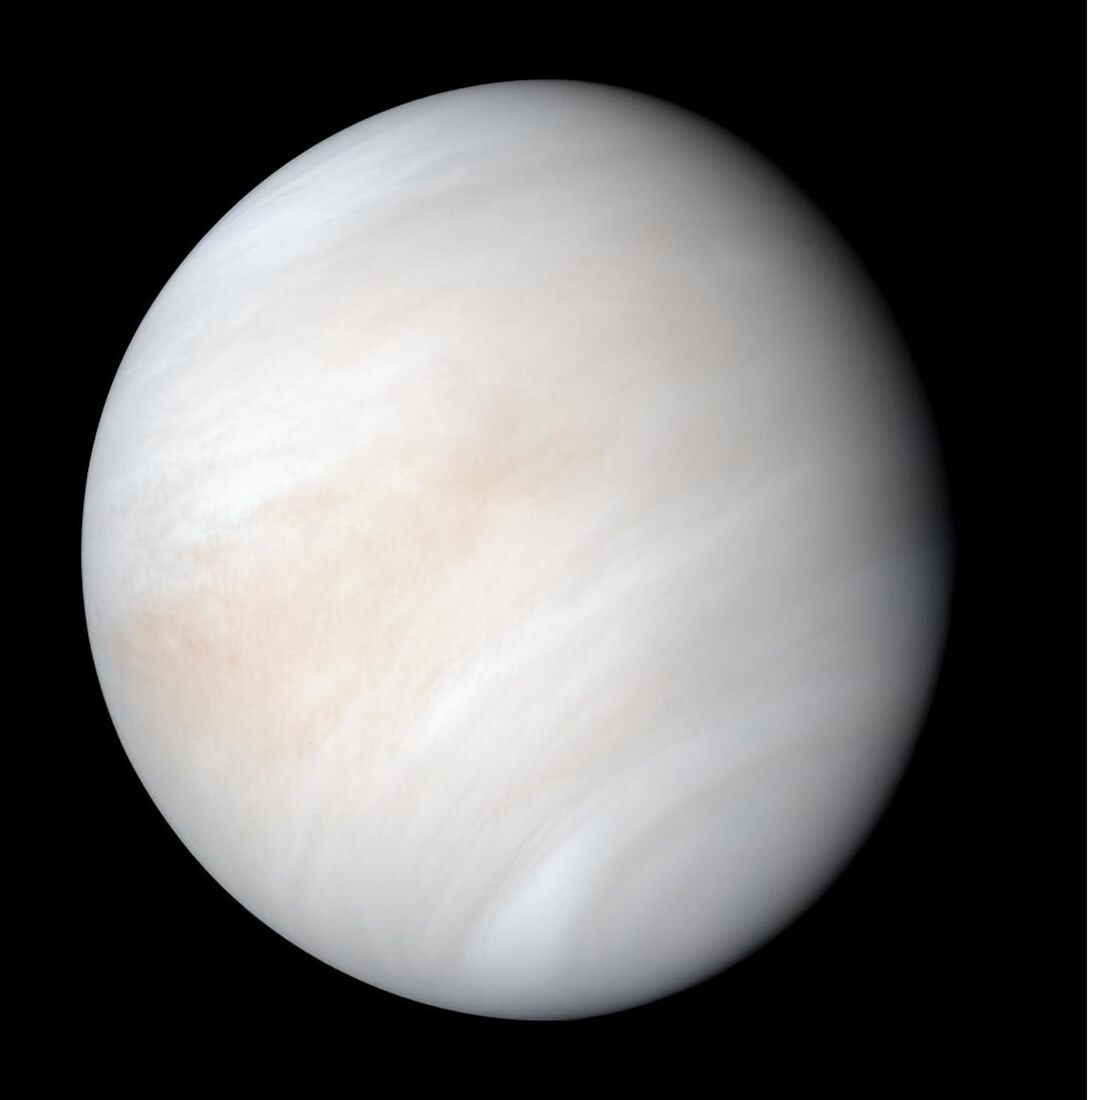
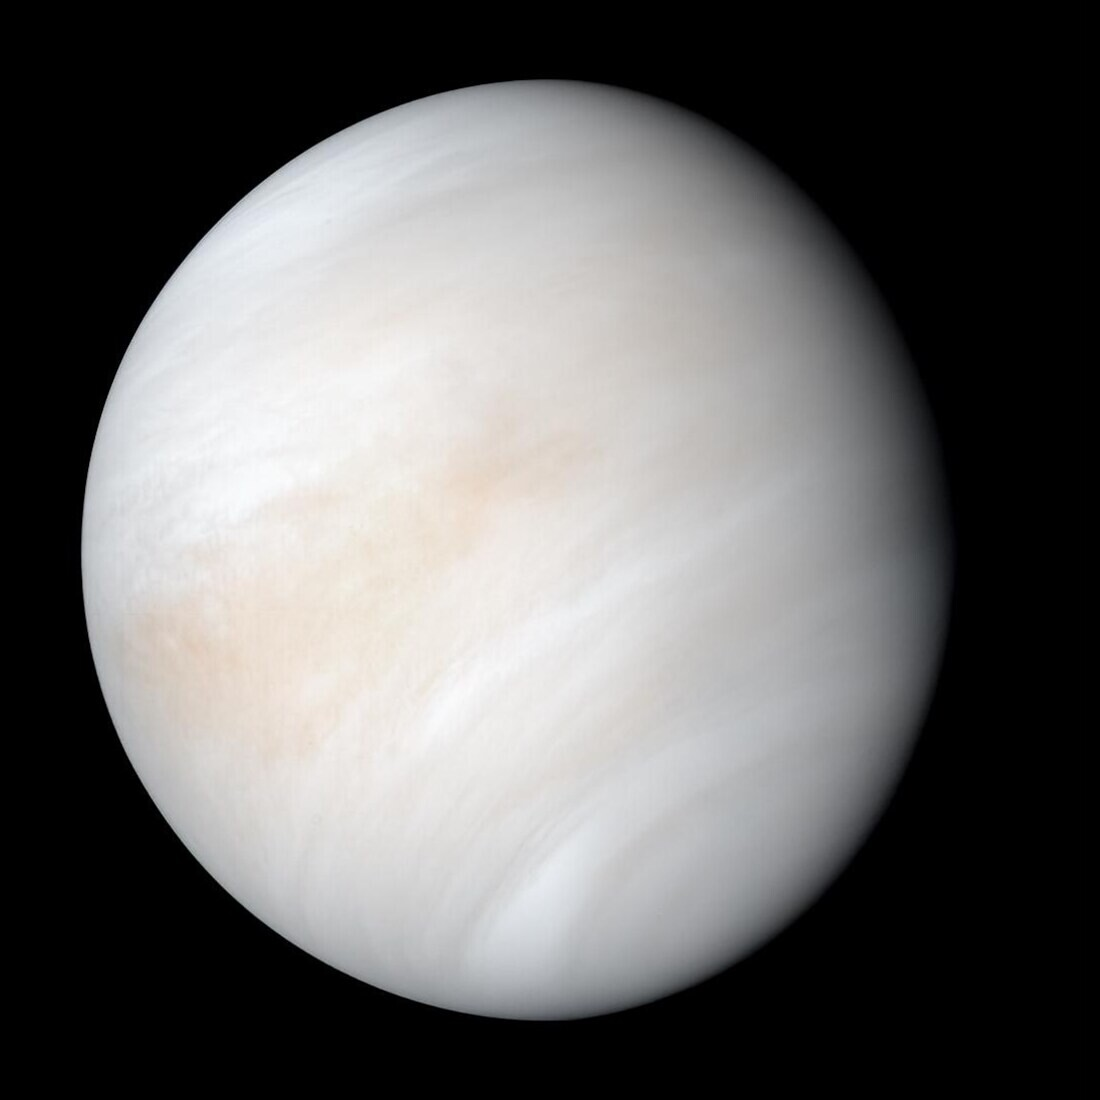
Add real pictures and charts to nine older lessons on the Sun, planets and moons
Also redraws the three earlier charts with larger lettering for phones
and paints out a white strip at the edge of the Mariner 10 picture of Venus.

Claude-Session: https://claude.ai/code/session_01Sn3b4aLpgFepSx4SWKviMY

Changed region(s): [[0.9891, 0.0, 1.0, 1.0]]

diff --git a/src/content/lessons/the-suns-reach/first-look.md b/src/content/lessons/the-suns-reach/first-look.md
@@ -7,8 +7,29 @@ The Sun gives out more than light. It also blows a wind.
 
 It is not a wind of air. It is a very thin stream of tiny electric particles, rushing away from the Sun in every direction at about 400 km every second.
 
+<figure class="photo">
+  <img src="/img/learn/aurora-from-iss.jpg" alt="Curtains of green light hanging above the dark curve of the Earth, seen from orbit." width="1100" height="733" loading="lazy" />
+  <figcaption><b>A photograph.</b> Where the wind meets the Earth. The planet's magnet steers the particles towards the poles, where they strike the high air and make it glow. These are the southern lights over the Indian Ocean, from the International Space Station on 12 June 2025, with the Earth at the top as the camera took it. At 400 km a second the wind takes about four days to get here (worked out here). Credit: NASA.</figcaption>
+</figure>
+
 The wind blows past all the planets. It is what pushes a comet's blue tail straight back from the Sun.
+
+<figure class="photo">
+  <img src="/img/learn/comet-hale-bopp-1997-eso.jpg" alt="A comet with a bright head and two tails against a field of stars: a straight blue one and a wide, curved, cream-coloured one." width="1100" height="773" loading="lazy" />
+  <figcaption><b>A photograph.</b> Comet Hale-Bopp on 14 March 1997. It has two tails. The straight blue one is gas, blown directly away from the Sun by the wind. The wide pale one is dust, which lags behind along the comet's path. Credit: ESO/E. Slawik.</figcaption>
+</figure>
 
 Far beyond the last planet, the wind finally runs out of push. That is where the Sun's own space ends and the space between the stars begins. The whole region inside is like a giant bubble with the Sun and planets in the middle.
 
+<figure class="photo">
+  <img src="/img/learn/charts/suns-reach-distances.svg" alt="A chart of four bars: Neptune at 30, the edge of the bubble at about 120, Voyager 2 at 144 and Voyager 1 at 172." width="800" height="474" loading="lazy" />
+  <figcaption><b>A chart.</b> Distances from the Sun, counting the distance from the Sun to the Earth as 1. The edge is where the two Voyagers crossed it, in 2012 and 2018. Their distances are for 12 November 2026, from NASA's JPL Horizons service.</figcaption>
+</figure>
+
 Two spacecraft, Voyager 1 and Voyager 2, have flown all the way out of the bubble. They were launched in 1977 and they are still going.
+
+
+<figure class="photo">
+  <img src="/img/learn/voyager-2-testing-1977.jpg" alt="Engineers in white overalls and caps working round a spacecraft with a large white dish, in a clean room." width="1100" height="875" loading="lazy" />
+  <figcaption><b>A photograph.</b> Voyager 2 being tested on 23 March 1977, five months before it left. The white dish, 3.7 metres across, is how it still talks to the Earth. A radio signal from Voyager 1 now takes nearly a whole day to arrive. Credit: NASA/JPL-Caltech.</figcaption>
+</figure>

diff --git a/src/content/lessons/three-kinds-of-planet/first-look.md b/src/content/lessons/three-kinds-of-planet/first-look.md
@@ -7,8 +7,28 @@ The eight planets fall into three groups.
 
 **Rock.** Mercury, Venus, the Earth and Mars are small and made of rock and metal. They have solid ground you could stand on.
 
+<figure class="photo">
+  <img src="/img/learn/mars-viking-global.jpg" alt="The red-orange globe of Mars with a long dark canyon across its middle." width="1100" height="1100" loading="lazy" />
+  <figcaption><b>A photograph, stitched together from many.</b> Mars, pieced together from about 1,000 pictures by NASA's Viking 1 orbiter. Solid ground, all the way round. The long scar is the canyon Valles Marineris. Credit: NASA/JPL/USGS.</figcaption>
+</figure>
+
 **Gas.** Jupiter and Saturn are enormous and made mostly of hydrogen and helium, the same stuff as the Sun. They have no ground at all. The gas simply gets thicker and hotter the deeper you go.
+
+<figure class="photo">
+  <img src="/img/learn/jupiter-juno-2019.jpg" alt="Jupiter as a banded ball of cream, tan and white swirling cloud, with the Great Red Spot near its upper right edge." width="900" height="900" loading="lazy" />
+  <figcaption><b>A photograph, with boosted colours.</b> Jupiter from NASA's Juno spacecraft on 12 February 2019. Everything in view is cloud. The Great Red Spot, at upper right, is a storm wider than the Earth. Credit: NASA/JPL-Caltech/SwRI/MSSS, processed by Kevin M. Gill (CC BY).</figcaption>
+</figure>
 
 **Ice.** Uranus and Neptune are in between. Under a deep atmosphere they are mostly water, ammonia and methane, crushed into a hot, dense fluid.
 
+<figure class="photo">
+  <img src="/img/learn/neptune-voyager-2.jpg" alt="The deep blue globe of Neptune with a dark oval storm and thin white clouds." width="1100" height="1098" loading="lazy" />
+  <figcaption><b>A photograph, with chosen colours.</b> Neptune from Voyager 2 in August 1989, the only spacecraft to have been there. The blue is deeper than the eye would see. Credit: NASA/JPL.</figcaption>
+</figure>
+
 The groups are in that order outward from the Sun, and that is no accident. Close to the young Sun it was too warm for ice, so there was only a little rock and metal to build with, and the planets there stayed small. Further out there was ice as well, and far more of it. Planets there grew big enough to pull in gas, and became giants.
+
+<figure class="photo">
+  <img src="/img/learn/charts/planet-sizes-to-scale.svg" alt="Eight circles in a row to scale: four tiny ones marked rock, two huge ones marked gas and two middling ones marked ice." width="800" height="380" loading="lazy" />
+  <figcaption><b>A chart.</b> The eight planets in order from the Sun, with their widths to scale. The gaps between them are not to scale. Jupiter is eleven Earths wide. Widths from NASA's planetary fact sheets.</figcaption>
+</figure>

diff --git a/src/content/lessons/rings/first-look.md b/src/content/lessons/rings/first-look.md
@@ -4,10 +4,26 @@ sources:
 ---
 Saturn's rings look solid, like a hat brim. They are not.
 
+<figure class="photo">
+  <img src="/img/learn/saturn-cassini-portrait-2004.jpg" alt="Saturn in soft yellow and tan, tilted, with its wide rings all the way round and their shadow across the planet." width="1100" height="562" loading="lazy" />
+  <figcaption><b>A photograph, stitched together from many.</b> Saturn in natural colour, made from 126 pictures taken by the Cassini spacecraft on 6 October 2004 from 6.3 million km away. Credit: NASA/JPL/Space Science Institute.</figcaption>
+</figure>
+
 They are made of billions of separate pieces of ice. Some are as small as grains of dust. Some are as big as a house. Every piece goes round Saturn on its own, like a tiny moon.
+
+<figure class="photo">
+  <img src="/img/learn/saturn-ring-wave-cassini.jpg" alt="Dozens of fine parallel bright and dark stripes running diagonally, close together at one side and wider apart at the other." width="900" height="900" loading="lazy" />
+  <figcaption><b>A photograph.</b> A small part of the rings from close up, by Cassini on 4 June 2017. The picture is about 500 km across. The stripes are a ripple set going by the tug of a moon called Janus. Each dot of the picture is half a kilometre wide, so even here not one piece of ice shows on its own. Credit: NASA/JPL-Caltech/Space Science Institute.</figcaption>
+</figure>
 
 The rings are enormously wide. If you laid them between the Earth and the Moon they would fill most of the gap.
 
 But they are also amazingly thin: in most places only about ten metres from top to bottom. For their width, they are as thin as a sheet of paper three kilometres across.
 
 Saturn is not the only planet with rings. Jupiter, Uranus and Neptune have them too. Theirs are dark and faint, and were only found in the last fifty years.
+
+
+<figure class="photo">
+  <img src="/img/learn/uranus-rings-webb.jpg" alt="Uranus as a pale blue-white ball with a bright white cap, circled by sharp thin rings and a few dots that are moons." width="800" height="578" loading="lazy" />
+  <figcaption><b>A real picture, in infrared.</b> The rings of Uranus, seen face on by the James Webb Space Telescope and released in December 2023. They are far easier to see in infrared light than in light the eye can see. The colours were chosen. The dots nearby are some of its moons. Credit: NASA, ESA, CSA, STScI.</figcaption>
+</figure>

diff --git a/src/content/lessons/moons-in-step/first-look.md b/src/content/lessons/moons-in-step/first-look.md
@@ -7,8 +7,23 @@ Push a child on a swing at just the right moment each time and a small push goes
 
 Moons can push each other like that. Three of Jupiter's big moons do it all the time.
 
+<figure class="photo">
+  <img src="/img/learn/galilean-moons-galileo.jpg" alt="Four moons in a row: yellow-orange Io, pale Europa with brown streaks, large grey-brown Ganymede and dark Callisto speckled with bright craters." width="1092" height="353" loading="lazy" />
+  <figcaption><b>Real photographs, arranged.</b> Jupiter's four big moons, with their sizes to scale: Io, Europa, Ganymede and Callisto, in order outward. The first three keep step. Callisto does not. Pictures by NASA's Galileo spacecraft. Credit: NASA/JPL/DLR.</figcaption>
+</figure>
+
 Io is the closest in and the quickest. In the time it takes Ganymede to go round Jupiter once, Europa goes round twice and Io goes round four times. They have kept this up for a very long time.
 
+<figure class="photo">
+  <img src="/img/learn/charts/three-moons-in-step.svg" alt="Three bars of the same length: Io split into four laps, Europa into two and Ganymede as one." width="800" height="430" loading="lazy" />
+  <figcaption><b>A chart.</b> Laps round Jupiter in the same seven days. The match is close but not perfect. Io finishes its four laps about two hours before Ganymede finishes one (worked out here from the periods in NASA's JPL Horizons service).</figcaption>
+</figure>
+
 Because of that rhythm, the moons pass each other at the same places on every lap, and each gets a little tug in the same direction again and again. The tugs keep their orbits slightly oval. That is the reason Io is squeezed and heated until it erupts.
+
+<figure class="photo">
+  <img src="/img/learn/io-galileo-1999.jpg" alt="Io as a yellow, orange and pale green globe dotted with black spots and red rings." width="900" height="900" loading="lazy" />
+  <figcaption><b>A photograph, stitched together from many.</b> Io, from NASA's Galileo spacecraft on 3 July 1999, in colours close to what the eye would see. There are no craters from falling rocks to be seen. Lava and sulphur from its volcanoes, the dark spots, bury them too quickly. Credit: NASA/JPL/University of Arizona.</figcaption>
+</figure>
 
 When orbits keep time like this, it is called a resonance.

diff --git a/src/content/lessons/how-the-sun-shines/first-look.md b/src/content/lessons/how-the-sun-shines/first-look.md
@@ -4,8 +4,24 @@ sources:
 ---
 The Sun is not on fire. A fire needs air, and there is none in space. A Sun made of burning coal would have gone out long ago.
 
+<figure class="photo">
+  <img src="/img/learn/sun-sunspots-sdo.jpg" alt="The whole Sun as an orange disc with a cluster of dark spots below the middle." width="1024" height="990" loading="lazy" />
+  <figcaption><b>A photograph.</b> The Sun in ordinary light in October 2014, by NASA's Solar Dynamics Observatory. Nothing here is burning. The whole ball is gas so hot that it glows, and the dark spots are places a little cooler than the rest. Credit: NASA/SDO.</figcaption>
+</figure>
+
 The Sun shines because of what happens in its centre. There the gas is squeezed so hard, and is so hot, that tiny particles of hydrogen are forced together to make helium. Each time that happens, a little of their weight disappears and turns into energy.
 
 A little goes a long way. Every second the Sun gets about four million tonnes lighter, and all of that becomes light and heat.
 
+<figure class="photo">
+  <img src="/img/learn/sun-filament-sdo.jpg" alt="The Sun as a mottled red and orange ball with bright patches and a long dark line across its lower half." width="1100" height="973" loading="lazy" />
+  <figcaption><b>A photograph, with chosen colours.</b> The Sun on 10 February 2015 in extreme ultraviolet light, which the eye cannot see, so the red was chosen for it. Every bit of the energy that keeps this going was made in the centre. Credit: NASA/SDO.</figcaption>
+</figure>
+
 It has been doing this for 4.6 billion years. It is so big that it has hardly noticed.
+
+
+<figure class="photo">
+  <img src="/img/learn/charts/sun-weight-used.svg" alt="A long gold bar with a hairline at its right-hand end, labelled as the part turned into light so far." width="800" height="300" loading="lazy" />
+  <figcaption><b>A chart.</b> Four million tonnes a second for 4.6 billion years comes to roughly a hundred Earths' worth of matter. Next to the Sun that is about 3 parts in 10,000. Drawn to scale, the used part would be a quarter of the width of the thin white line. Worked out here from the Sun's measured output.</figcaption>
+</figure>

diff --git a/src/content/lessons/ocean-moons/first-look.md b/src/content/lessons/ocean-moons/first-look.md
@@ -9,6 +9,21 @@ The water is hidden. On top is a shell of ice, kilometres thick and as hard as r
 
 Europa, a moon of Jupiter a little smaller than ours, is thought to hold about twice as much water as all of Earth's oceans put together.
 
+<figure class="photo">
+  <img src="/img/learn/europa-galileo.jpg" alt="Half of a pale blue-white globe criss-crossed by long rust-brown lines and blotches, fading into shadow on the right." width="1100" height="1488" loading="lazy" />
+  <figcaption><b>A photograph, stitched together from many.</b> Europa, pieced together from pictures taken by NASA's Galileo spacecraft in 1995 and 1998, in colours close to what the eye would see. The brown lines are cracks in the ice. Credit: NASA/JPL-Caltech/SETI Institute.</figcaption>
+</figure>
+
 At Saturn, the small moon Enceladus gives its ocean away. Jets of water vapour and ice grains spray out of cracks near its south pole and into space. A spacecraft has flown straight through them and tasted what is inside.
 
+<figure class="photo">
+  <img src="/img/learn/enceladus-jets-cassini.jpg" alt="The dark edge of a moon with thin bright jets spraying up from it into black space." width="1100" height="680" loading="lazy" />
+  <figcaption><b>A photograph.</b> The jets of Enceladus, lit from behind by the Sun. Two pictures by NASA's Cassini spacecraft joined together. Credit: NASA/JPL/Space Science Institute.</figcaption>
+</figure>
+
 Where there is liquid water there might be life, so these moons are some of the most interesting places we know.
+
+<figure class="photo">
+  <img src="/img/learn/charts/europa-water-ball.svg" alt="Two blue balls side by side: a smaller one for all the Earth's oceans and a larger one for Europa's ocean, which sits inside a dashed outline of Europa." width="800" height="500" loading="lazy" />
+  <figcaption><b>A chart.</b> All the water gathered into a ball, to scale. Europa's ball is bigger, although Europa is smaller than our Moon. Worked out here from the 1.335 billion cubic kilometres in the Earth's oceans, taking twice that for Europa.</figcaption>
+</figure>

diff --git a/src/content/lessons/air-and-the-greenhouse/first-look.md b/src/content/lessons/air-and-the-greenhouse/first-look.md
@@ -8,8 +8,23 @@ Venus, Earth and Mars are neighbours, and all three are made of rock. But you co
 
 Venus is hot enough to melt lead. Mars is colder than Antarctica. The Earth is in between.
 
+<figure class="photo">
+  <img src="/img/learn/venus-mariner-10.jpg" alt="A smooth cream-white globe with faint tan swirls of cloud, on black." width="1100" height="1100" loading="lazy" />
+  <figcaption><b>A photograph, with chosen colours.</b> Venus, by NASA's Mariner 10 spacecraft in February 1974. The colour was built from pictures taken through orange and ultraviolet filters. All you can see is the top of the cloud. The ground is hidden under air that presses about ninety times as hard as ours. Credit: NASA/JPL-Caltech.</figcaption>
+</figure>
+
 Distance from the Sun is part of the reason, but only part. The bigger reason is air.
 
 Some gases in the air work like a blanket. They let sunshine in and stop some of the warmth from getting back out. This is called the greenhouse effect.
 
+<figure class="photo">
+  <img src="/img/learn/earth-thin-air-sunrise-iss.jpg" alt="The curve of the Earth in darkness with the Sun just rising over it, and a thin bright blue line along the edge." width="1100" height="642" loading="lazy" />
+  <figcaption><b>A photograph.</b> All the air there is. The Sun rises behind the Earth, seen from the International Space Station over Indonesia on 21 April 2019, and the atmosphere shows as the thin blue line. Credit: NASA.</figcaption>
+</figure>
+
 Venus has a blanket that is far too thick. Mars has almost none. The Earth's is just thick enough to keep the oceans from freezing.
+
+<figure class="photo">
+  <img src="/img/learn/charts/three-planets-temperature.svg" alt="A temperature scale from cold blue to hot red with Mars at minus 65 degrees, Earth at 15 and Venus at 464, beyond the mark where lead melts." width="800" height="430" loading="lazy" />
+  <figcaption><b>A chart.</b> The average temperature at the ground on each planet, in degrees Celsius. Figures from NASA.</figcaption>
+</figure>

diff --git a/src/content/lessons/what-a-moon-is/first-look.md b/src/content/lessons/what-a-moon-is/first-look.md
@@ -8,6 +8,22 @@ A moon is a natural object that orbits a planet. The planet orbits the Sun, and 
 
 Earth has one, and we call it the Moon. Mars has two small ones. Mercury and Venus have none at all.
 
+<figure class="photo">
+  <img src="/img/learn/phobos-mro-2008.jpg" alt="A lumpy, potato-shaped grey-brown moon covered in craters and grooves, with one very large crater at the right." width="900" height="880" loading="lazy" />
+  <figcaption><b>A photograph.</b> Phobos, the larger of the two moons of Mars, from 6,800 km away on 23 March 2008. It is about 27 km long, too small to pull itself round. Credit: NASA/JPL-Caltech/University of Arizona.</figcaption>
+</figure>
+
 The giant planets have most of them. In November 2026 the count stood at 115 for Jupiter, 292 for Saturn, 29 for Uranus and 16 for Neptune. Even little Pluto has five. The numbers keep going up, because the ones still being found are small, dark and very far away.
 
+<figure class="photo">
+  <img src="/img/learn/charts/moons-by-planet.svg" alt="A chart of seven bars: Earth 1, Mars 2, Jupiter 115, Saturn 292, Uranus 29, Neptune 16 and Pluto 5." width="800" height="678" loading="lazy" />
+  <figcaption><b>A chart.</b> The count of known moons in November 2026, from NASA's Jet Propulsion Laboratory.</figcaption>
+</figure>
+
 Moons are not all alike. Ganymede and Titan are bigger than the planet Mercury. Most of the others are lumps of rock and ice only a few kilometres across, too small for their own gravity to pull them round.
+
+
+<figure class="photo">
+  <img src="/img/learn/ganymede-juno-2021.jpg" alt="Part of a large grey globe with dark old ground, paler grooved bands and bright craters with rays." width="898" height="1050" loading="lazy" />
+  <figcaption><b>A photograph.</b> Ganymede, the largest moon of all, from NASA's Juno spacecraft on 7 June 2021. It was taken through one filter, so it is in black and white. Ganymede is 5,268 km across, wider than Mercury. Credit: NASA/JPL-Caltech/SwRI/MSSS.</figcaption>
+</figure>

diff --git a/src/content/lessons/how-the-planets-formed/first-look.md b/src/content/lessons/how-the-planets-formed/first-look.md
@@ -7,6 +7,16 @@ The Sun and its planets were all made together, about 4.6 billion years ago, fro
 
 The cloud fell in on itself. Most of it went to the middle and became the Sun. The rest could not fall straight in, because the cloud was slowly turning. It spread out into a wide, flat disc going round the new star.
 
+<figure class="photo">
+  <img src="/img/learn/hl-tauri-disc-alma.jpg" alt="A glowing orange disc seen at a tilt, made of bright rings with dark gaps between them, round a bright centre." width="900" height="900" loading="lazy" />
+  <figcaption><b>A real picture, made with radio waves.</b> This is happening now round other stars. The disc of dust round the young star HL Tauri, about 450 light years away, taken in 2014 by the ALMA radio telescopes in Chile. The colour was chosen. The dark gaps may be lanes swept clear by planets as they form. Credit: ALMA (ESO/NAOJ/NRAO), CC BY 4.0.</figcaption>
+</figure>
+
 In the disc, grains of dust bumped into each other and stuck. Specks became pebbles. Pebbles became boulders, and boulders became lumps the size of mountains. The biggest lumps pulled in the others with their gravity, and grew into planets.
+
+<figure class="photo">
+  <img src="/img/learn/pds-70b-sphere-eso.jpg" alt="A black circle in the middle of a faint ring of light, with one bright spot to its right." width="1100" height="931" loading="lazy" />
+  <figcaption><b>A real picture, in infrared.</b> A planet caught being made. The bright spot is PDS 70b, growing inside the disc round a young star, seen by the Very Large Telescope in Chile in 2018. The black circle is a mask that hides the star, and the colour was chosen. Credit: ESO/A. Müller et al., CC BY 4.0.</figcaption>
+</figure>
 
 That is why the planets all go round the Sun the same way, and nearly in the same flat plane. They are what is left of the disc.

diff --git a/src/content/lessons/colour-and-brightness/first-look.md b/src/content/lessons/colour-and-brightness/first-look.md
@@ -22,6 +22,6 @@ Stars work the same way. Red stars are the coolest. Blue stars are the hottest. 
 Brightness is harder. A star can look bright because it really is powerful, or just because it is near. To know which, you have to find out how far away it is.
 
 <figure class="photo">
-  <img src="/img/learn/charts/star-colour-and-temperature.svg" alt="A band of colour running from orange through white to pale blue, with six stars marked along it from Proxima at the cool end to Rigel at the hot end." width="800" height="430" loading="lazy" />
+  <img src="/img/learn/charts/star-colour-and-temperature.svg" alt="A band of colour running from orange through white to pale blue, with six stars marked along it from Proxima at the cool end to Rigel at the hot end." width="800" height="560" loading="lazy" />
   <figcaption><b>A chart.</b> Six stars placed by the temperature of their surfaces. Nothing here is green or purple: a star gives out every colour at once, and the mixture only ever looks red, orange, yellow-white, white or blue-white. The temperatures are measured ones, and the colours of the band are a guide.</figcaption>
 </figure>

diff --git a/src/content/lessons/seasons/first-look.md b/src/content/lessons/seasons/first-look.md
@@ -23,6 +23,6 @@ The southern half of the world gets the opposite. Christmas in Australia is in m
 </figure>
 
 <figure class="photo">
-  <img src="/img/learn/charts/daylight-in-london.svg" alt="A chart of a curve rising from under 8 hours in December to over 16 hours in June and falling again." width="800" height="470" loading="lazy" />
+  <img src="/img/learn/charts/daylight-in-london.svg" alt="A chart of a curve rising from under 8 hours in December to over 16 hours in June and falling again." width="800" height="520" loading="lazy" />
   <figcaption><b>A chart.</b> Hours of daylight in London through the year, from sunrise to sunset. The lean of the Earth more than doubles the length of the day between December and June. Worked out here from the tilt of the Earth and the latitude of London, allowing for the width of the Sun and the way the air bends its light near the horizon. Without those two, the June day would come out about a quarter of an hour shorter.</figcaption>
 </figure>

diff --git a/src/content/lessons/measuring-distance/first-look.md b/src/content/lessons/measuring-distance/first-look.md
@@ -24,6 +24,6 @@ You would not give the distance from Manchester to Sydney in millimetres. Space 
 A light year is a distance, but it carries a bonus. If a star is 4.25 light years away, the light you see tonight left it 4.25 years ago.
 
 <figure class="photo">
-  <img src="/img/learn/charts/rulers-of-distance.svg" alt="A chart of four bars of growing length: the Moon, the Sun, Neptune and the nearest star." width="800" height="470" loading="lazy" />
+  <img src="/img/learn/charts/rulers-of-distance.svg" alt="A chart of four bars of growing length: the Moon, the Sun, Neptune and the nearest star." width="800" height="540" loading="lazy" />
   <figcaption><b>A chart.</b> The same four distances on one scale. The scale is not an even one: each step along is ten times further. On an even scale, if the bar for the nearest star were as long as Britain, the bar for the Moon would be about a centimetre long. Worked out here, taking Britain as 1,000 km.</figcaption>
 </figure>
